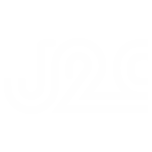
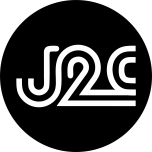
added maskable
added maskable icon and corrected typo

diff --git a/working.html b/working.html
@@ -54,7 +54,7 @@
                     <div class="line"></div>
                     <div class="line"></div>
                 </div>
-                <div class="logo"><img src="./icons/icon-512x512.png" alt="jumptochat"></div>
+                <div class="logo"><img src="./icons/logo.png" alt="jumptochat"></div>
                 <ul class="navlink">
                     <li><a href="./index.html">Home</a></li>
                     <li><a href="#">Working</a></li>
@@ -75,7 +75,7 @@
       </p>
       <p class="mt-1 max-w-2xl text-sm text-gray-500">
       <b style="color: red;">
-        * * Note : This website is not affiliated with nor endorsed by WhatsApp Inc. * *
+        * * Note : This website is not affiliated nor endorsed by WhatsApp Inc. * *
 
       </b>
       </p>
@@ -103,7 +103,7 @@
               Can it run offline?
           </dt>
           <dd class="mt-1 text-sm text-gray-900 sm:mt-0 sm:col-span-2">
-            Yes , for sending message you will need internet. 
+            Yes , but for sending message you will need internet. 
           </dd>
         </div>
         <div class="bg-white px-4 py-5 sm:grid sm:grid-cols-3 sm:gap-4 sm:px-6">

diff --git a/index.html b/index.html
@@ -58,7 +58,7 @@
                     <div class="line"></div>
                     <div class="line"></div>
                 </div>
-                <div class="logo"><img src="./icons/icon-512x512.png" alt="jumptochat"></div>
+                <div class="logo"><img src="./icons/logo.png" alt="jumptochat"></div>
                 <ul class="navlink">
                     <li><a href="#">Home</a></li>
                     <li><a href="./working.html">Working</a></li>

diff --git a/service-worker.js b/service-worker.js
@@ -28,7 +28,7 @@ self.addEventListener("install", (event) => {
     caches.open(CACHE_NAME).then(function(cache) {
       return cache.addAll(
         [
-          './icons/icon-512x512.png',
+          './icons/logo.png',
           './style.css',
           './offline.html'
           

diff --git a/offline.html b/offline.html
@@ -35,7 +35,7 @@
     </style>
   </head>
   <body>
-    <img class="logo" src="./icons/icon-512x512.png" alt="logo jump to chat">
+    <img class="logo" src="./icons/logo.png" alt="logo jump to chat">
     <h1>You are offline</h1>
 
     <p>Click the button beow to try reloading.</p>
